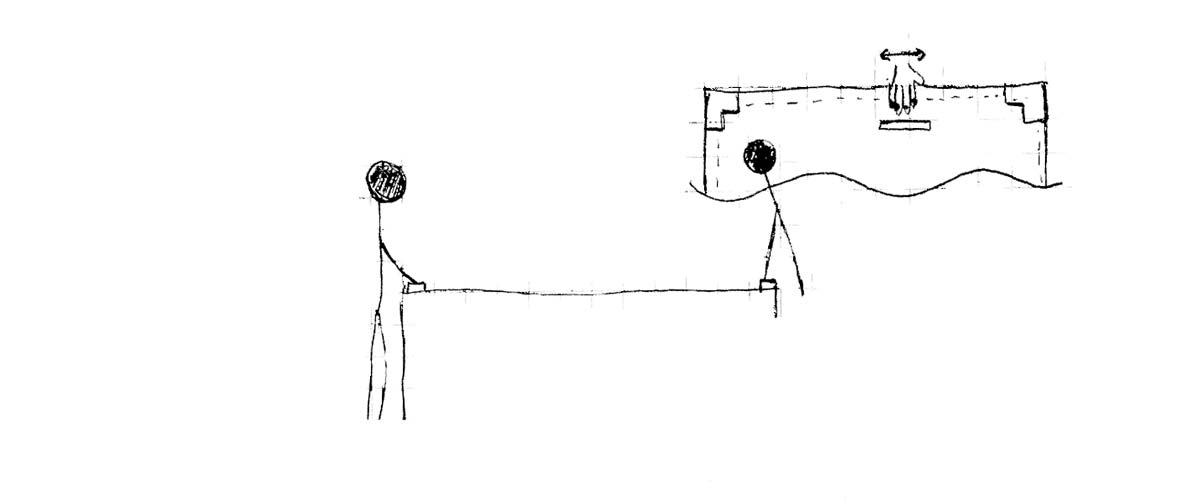
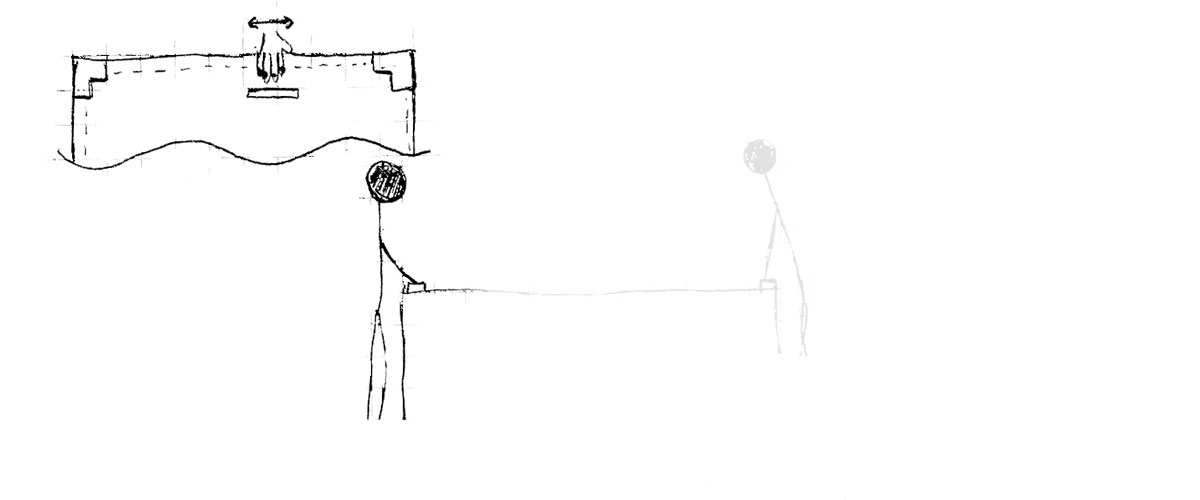
Refitted portfolio pieces for modified layout and typography.

diff --git a/public/assets/css/master.css b/public/assets/css/master.css
@@ -16,9 +16,10 @@ h1, h2, h3 {
 	font-family: HelveticaNeue-Light, 'Helvetica Neue Light', 'Helvetica Neue', Helvetica, arial, sans-serif; }
 
 article h1 {
+	clear: both;
 	line-height: 1;
 	font-size: 3.6em;
-	margin: 50px 0 20px; }
+	margin: 40px 0 20px; }
 	
 h2 {
 	font-size: 2.4em;
@@ -27,7 +28,7 @@ h2 {
 h3 {
 	font-size: 2.4em;
 	font-weight: 700;
-	margin: 40px 0 0; }
+	margin: 30px 0 0; }
 
 p, ol, ul, dt, dd {
 	font-size: 1.6em; }
@@ -96,7 +97,7 @@ hgroup {
 	display: block; }
 
 article aside {
-	margin: 0 40px 4em -340px;
+	margin: 40px 40px 20px -340px;
 	float: left;
 	display: block;
 	width: 300px; }
@@ -140,8 +141,8 @@ figure.caption {
 	border-radius: 0 0 5px 5px; }
 
 figure.aside {
-	margin: 0 4em 4em -320px;
-	width: 280px; }
+	margin: 0 40px 20px -340px;
+	width: 300px; }
 
 figure p {
 	font-size: 1.4em;
@@ -152,20 +153,14 @@ figure p {
 	float: left;
 	display: block;
 	width: 980px;
-	margin: 0 0 3em -340px;
+	margin: 0 0 20px -340px;
 	border: 1px solid;
 	border-width: 1px 0; }
 	
 .figure-group figure {
 	padding: 0;
 	clear: none;
-	margin: 2em 0 1.5em 2em;
-	width: 220px; }
-
-.figure-group figure:first-child {
-	margin-left: 1em; }
-
-.figure-group.six figure {
+	margin: 20px 0 14px 20px;
 	width: 140px; }
 	
 .hresume .description {
@@ -220,7 +215,7 @@ nav li a {
 
 article nav {
 	float: left;
-	margin: 0 0 0 -320px; }
+	margin: 0 0 0 -340px; }
 	
 article nav li {
 	float: left;
@@ -229,7 +224,7 @@ article nav li {
 	border-left: 1px solid; }
 
 article nav li:first-child {
-	width: 200px;
+	width: 220px;
 	border-width: 0;
 	text-align: right; }
 
@@ -445,8 +440,7 @@ section.labsec :last-child {
 	background: url(/assets/i/esk-pre-640-ship.png) no-repeat 16% 180%;
 	-webkit-background-size: 200px;
 	-moz-background-size: 200px;
-	background-size: 200px;
- }
+	background-size: 200px; }
 
 .energy-safe-kids figure a:hover span.b {
 	background-position: 20% 100%; 

diff --git a/public/assets/css/slug/waterwall.css b/public/assets/css/slug/waterwall.css
@@ -5,7 +5,7 @@ html {
 body {
 	text-shadow: rgba(100%, 100%, 100%, .8) 0 1px 0;
 	border-color: rgba(218, 75, 59, .9);
-	background: rgb(174, 207, 233) url(/assets/i/waterwall-bg.png) repeat-x 50% -160px; }
+	background: rgb(174, 207, 233) url(/assets/i/waterwall-bg.png) repeat-x 50% -250px; }
 
 a:link, a:visited {
 	color: rgba(218, 75, 59, .9); }

diff --git a/public/assets/css/slug/daybreak.css b/public/assets/css/slug/daybreak.css
@@ -1,4 +1,4 @@
 	
 body {
 	text-shadow: rgba(100%, 100%, 100%, .6) 0 1px 0;
-	background: rgba(255, 194, 76, 1) url(/assets/i/daybreak-bg.jpg) repeat-x 50% 0; }
+	background: rgba(255, 194, 76, 1) url(/assets/i/daybreak-bg.jpg) repeat-x 50% -100px; }

diff --git a/public/assets/css/colors.css b/public/assets/css/colors.css
@@ -60,7 +60,7 @@ abbr {
 	
 h1, h2, h3, dt, header a:link, header a:visited {
 	color: rgba(0, 0, 0, .8); }
-	
+
 header h1 a:hover {
 	color: #000000;
 	background-color: transparent; }

diff --git a/public/assets/css/slug/ping-platform.css b/public/assets/css/slug/ping-platform.css
@@ -1,3 +1,3 @@
 	
 body {
-	background: transparent url(/assets/i/ping-bg.jpg) no-repeat 50% 113px; }
+	background: transparent url(/assets/i/ping-bg.jpg) no-repeat 50% 145px; }

diff --git a/public/assets/css/slug/zygomote.css b/public/assets/css/slug/zygomote.css
@@ -2,7 +2,7 @@
 .gallery {
 	display: block;
 	float: right;
-	margin: -210px 0 0 40px; }
+	margin: -80px 0 0 40px; }
 
 .gallery ul {
 	margin: 0;
